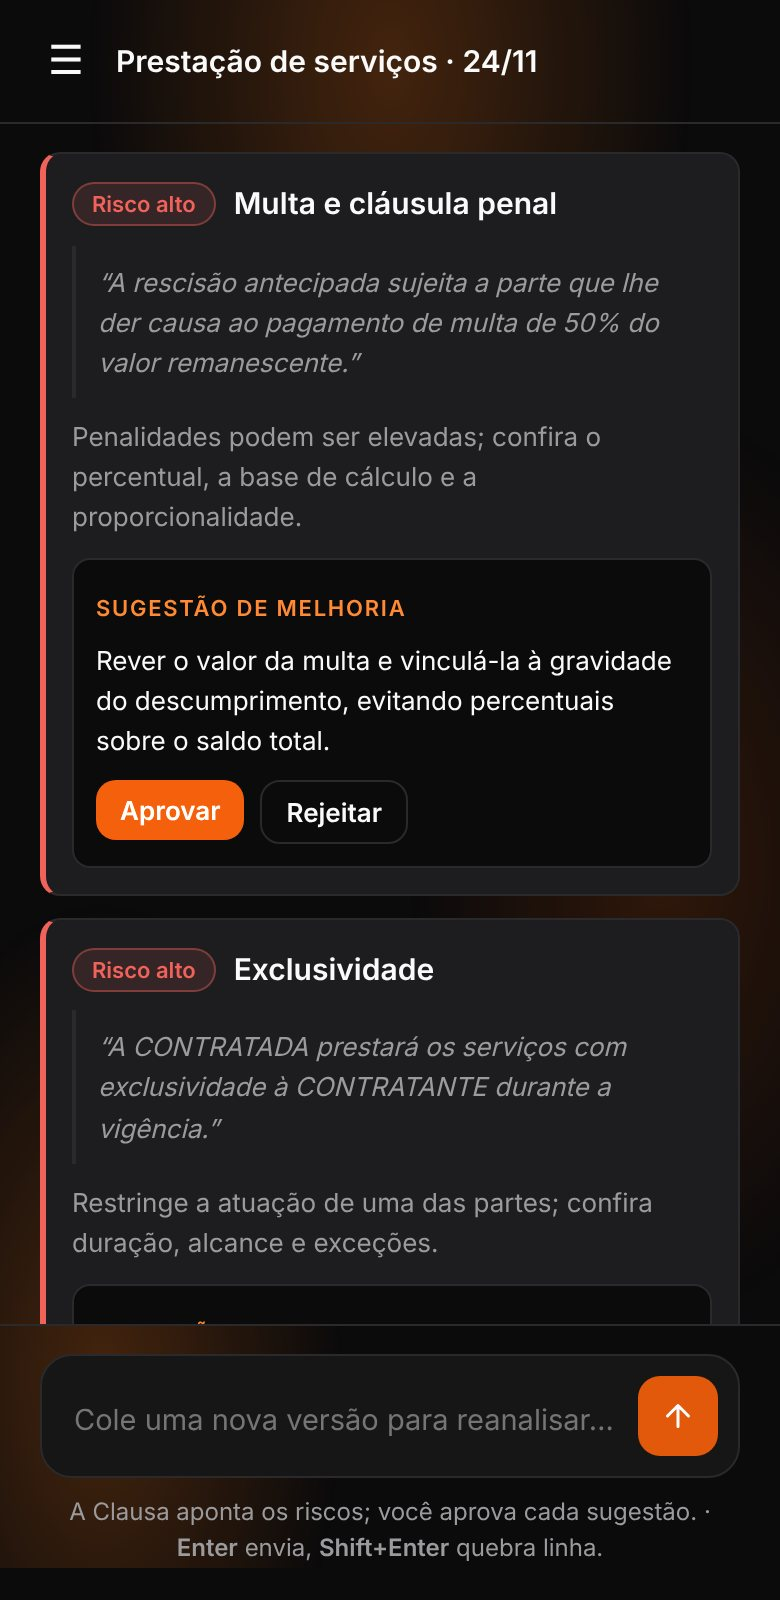
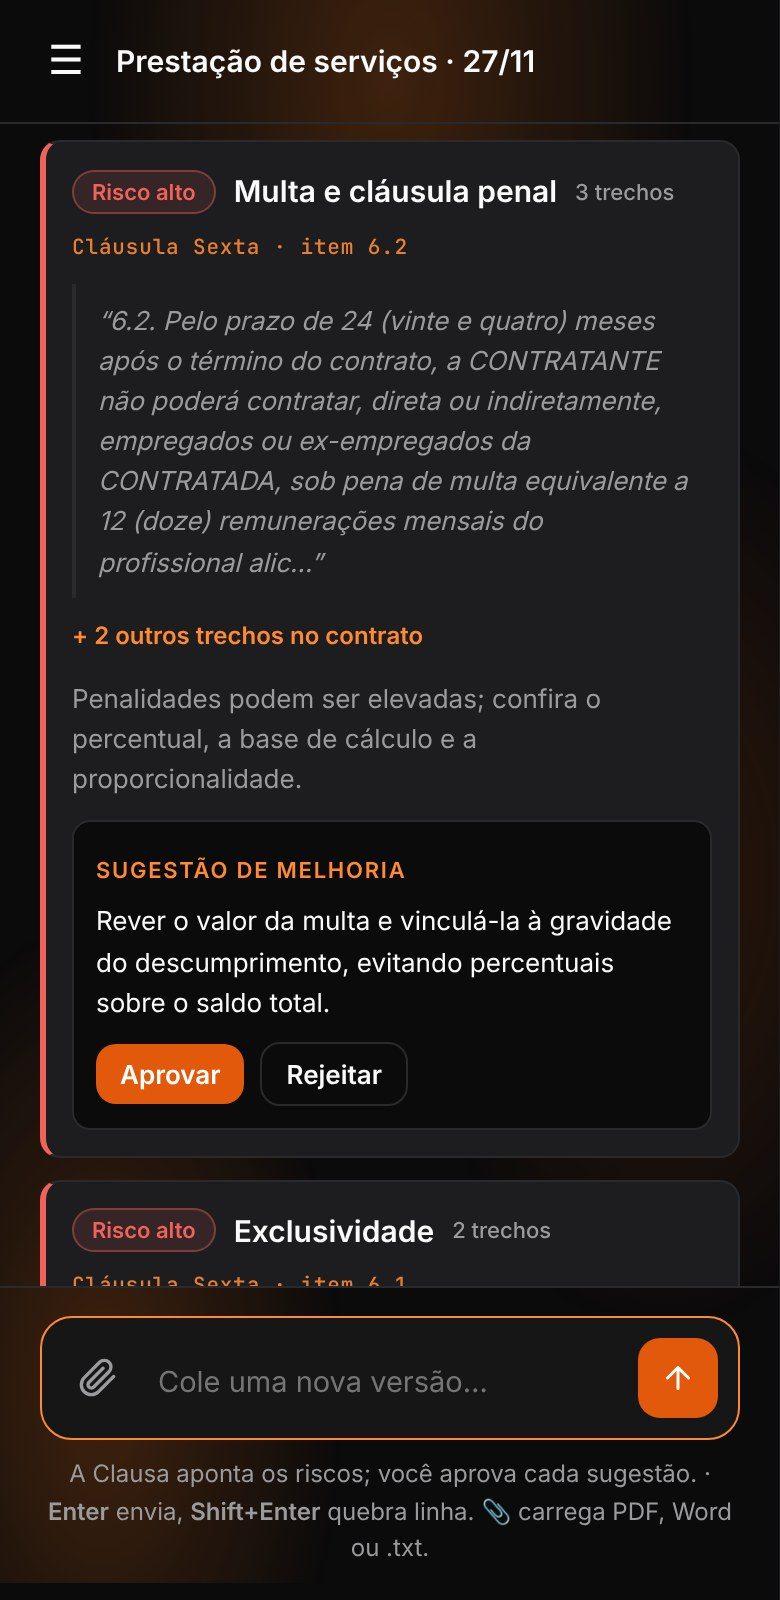
Site: seção Para escritórios, novidades (sigilo, Word, escaneado, equipe) e prints novos do app
Claude-Session: https://claude.ai/code/session_01LopQzW3XM78mzvZh3cbRhj

diff --git a/index.html b/index.html
@@ -214,7 +214,7 @@ footer{border-top:1px solid var(--line2);padding:56px 0 40px;color:var(--gray);f
 <div id="bar"></div>
 <nav class="nav"><div class="wrap">
   <a class="logo" href="#topo" aria-label="Clausa — voltar ao início">Clausa<svg viewBox="0 0 48 48" fill="none" stroke="currentColor" stroke-width="2.6" stroke-linecap="round" stroke-linejoin="round" aria-hidden="true"><circle cx="24" cy="6.4" r="1.9" fill="currentColor" stroke="none"/><path d="M24 7.5 V37.5"/><path d="M9.5 14 H38.5"/><path d="M9.5 14 V17"/><path d="M4.8 17 Q9.5 23.6 14.2 17"/><path d="M38.5 14 V17"/><path d="M33.8 17 Q38.5 23.6 43.2 17"/><path d="M17.5 37.5 H30.5"/></svg></a>
-  <div class="links"><a href="#como">Como funciona</a><a href="#recursos">Recursos</a><a href="#teste">Experimente</a><a href="#seguranca">Segurança</a><a href="#faq">Dúvidas</a></div>
+  <div class="links"><a href="#como">Como funciona</a><a href="#recursos">Recursos</a><a href="#escritorios">Escritórios</a><a href="#teste">Experimente</a><a href="#seguranca">Segurança</a><a href="#faq">Dúvidas</a></div>
   <div class="nav-r">
     <button class="icon-btn" id="theme" type="button" aria-label="Alternar tema claro e escuro"><svg width="17" height="17" viewBox="0 0 24 24" fill="none" stroke="currentColor" stroke-width="2" stroke-linecap="round" stroke-linejoin="round" aria-hidden="true"><path d="M21 12.8A9 9 0 1 1 11.2 3a7 7 0 0 0 9.8 9.8z"/></svg></button>
     <a class="btn ghost sm" href="entrar.html">Entrar</a>
@@ -224,20 +224,20 @@ footer{border-top:1px solid var(--line2);padding:56px 0 40px;color:var(--gray);f
 
 <header id="topo" class="hero">
   <div class="wrap">
-    <span class="badge reveal"><i></i>Em desenvolvimento · teste grátis aberto</span>
+    <span class="badge reveal"><i></i>Teste grátis aberto · piloto para escritórios</span>
     <h1>Saiba onde olhar <em>antes de assinar.</em></h1>
     <p class="lead reveal">A Clausa lê o contrato com você, aponta as cláusulas que merecem atenção e explica o motivo de cada uma. A decisão continua sendo sua, ou do seu advogado.</p>
     <div class="ctas reveal"><a class="btn" href="app.html">Testar grátis <svg width="16" height="16" viewBox="0 0 24 24" fill="none" stroke="currentColor" stroke-width="2.2" stroke-linecap="round" stroke-linejoin="round" aria-hidden="true"><path d="M5 12h14M13 6l6 6-6 6"/></svg></a><a class="btn ghost" href="#como">Ver como funciona</a><button class="btn ghost" type="button" data-instalar hidden><svg width="16" height="16" viewBox="0 0 24 24" fill="none" stroke="currentColor" stroke-width="1.8" stroke-linecap="round" stroke-linejoin="round" aria-hidden="true"><path d="M12 3v12M7 10l5 5 5-5M5 21h14"/></svg>Instalar app</button></div>
     <ul class="trust reveal">
       <li><svg width="16" height="16" viewBox="0 0 24 24" fill="none" stroke="currentColor" stroke-width="2.4" stroke-linecap="round" stroke-linejoin="round" aria-hidden="true"><path d="M5 12l5 5 9-10"/></svg>Sem cadastro para testar</li>
-      <li><svg width="16" height="16" viewBox="0 0 24 24" fill="none" stroke="currentColor" stroke-width="2.4" stroke-linecap="round" stroke-linejoin="round" aria-hidden="true"><path d="M5 12l5 5 9-10"/></svg>Sem login, o texto fica só no seu aparelho</li>
+      <li><svg width="16" height="16" viewBox="0 0 24 24" fill="none" stroke="currentColor" stroke-width="2.4" stroke-linecap="round" stroke-linejoin="round" aria-hidden="true"><path d="M5 12l5 5 9-10"/></svg>Modo sigilo: o contrato não sai do seu aparelho</li>
       <li><svg width="16" height="16" viewBox="0 0 24 24" fill="none" stroke="currentColor" stroke-width="2.4" stroke-linecap="round" stroke-linejoin="round" aria-hidden="true"><path d="M5 12l5 5 9-10"/></svg>Pensada para contratos brasileiros</li>
     </ul>
   </div>
   <div class="shot reveal">
     <div class="browser"><div class="chrome"><i></i><i></i><i></i><span>mholandap.github.io/Clausa/app</span></div>
-      <img src="img/app-revisao.jpg" width="1280" height="800" alt="Tela do app Clausa: revisão de um contrato de prestação de serviços com 2 riscos altos, 6 pontos de atenção e 3 sem alerta, e a cláusula de multa destacada com sugestão de melhoria."></div>
-    <div class="phone"><img src="img/app-celular.jpg" width="390" height="800" alt="O mesmo app no celular, mostrando a cláusula de multa com risco alto." loading="lazy"></div>
+      <img src="img/app-revisao.jpg" width="1280" height="800" alt="Tela do app Clausa: revisão de um contrato de prestação de serviços com 4 riscos altos, 13 pontos de atenção e 8 sem alerta; a multa aparece em 3 trechos, com a cláusula e o item de cada um."></div>
+    <div class="phone"><img src="img/app-celular.jpg" width="390" height="800" alt="O mesmo app no celular, mostrando a cláusula de multa com risco alto, a cláusula e o item." loading="lazy"></div>
   </div>
   <div class="hero-fade"></div>
 </header>
@@ -277,12 +277,12 @@ footer{border-top:1px solid var(--line2);padding:56px 0 40px;color:var(--gray);f
 <section id="como" class="alt"><div class="wrap">
   <div class="center"><p class="eyebrow">Como funciona</p><h2>Do texto ao alerta em três passos.</h2><p class="sub">Sem instalar nada. Funciona no navegador do computador e do celular.</p></div>
   <div class="steps">
-    <div class="step reveal"><div class="txt"><span class="num">01</span><h3>Cole o contrato</h3><p>Cole o texto ou carregue um arquivo .txt. Sem cadastro, ele fica só no seu aparelho.</p></div>
+    <div class="step reveal"><div class="txt"><span class="num">01</span><h3>Cole o contrato</h3><p>Cole o texto ou carregue PDF (até escaneado), Word ou .txt. Sem cadastro, ele fica só no seu aparelho.</p></div>
       <div class="vis"><img src="img/app-inicio.jpg" width="1280" height="800" alt="Tela inicial do app com a caixa para colar o contrato." loading="lazy"></div></div>
-    <div class="step reveal"><div class="txt"><span class="num">02</span><h3>Veja o que importa</h3><p>Cada cláusula relevante aparece com o nível de atenção, o trecho e o motivo.</p></div>
+    <div class="step reveal"><div class="txt"><span class="num">02</span><h3>Veja o que importa</h3><p>Cada ponto aparece com o nível de atenção, o trecho, onde está (cláusula e item) e o motivo.</p></div>
       <div class="vis"><div class="file"><span>Multa de 50% do saldo</span><span class="chip alto">Risco alto</span></div><div class="file"><span>Renovação automática</span><span class="chip medio">Atenção</span></div><div class="file"><span>Reajuste pelo IPCA</span><span class="chip medio">Atenção</span></div><div class="file"><span>Confidencialidade</span><span class="chip ok">Sem alerta</span></div></div></div>
-    <div class="step reveal"><div class="txt"><span class="num">03</span><h3>Decida e guarde</h3><p>Aprove ou rejeite cada sugestão e baixe o relatório. Com login, fica salvo na sua conta.</p></div>
-      <div class="vis"><div class="file"><span>Rever valor da multa</span><span class="chip ok">Aprovada</span></div><div class="file"><span>Aviso de 60 dias antes da renovação</span><span class="chip ok">Aprovada</span></div><div class="file"><span>Exclusividade por território</span><span class="chip medio">Pendente</span></div><div class="file"><span>Relatório da revisão (.txt)</span><span class="chip ok">Baixado</span></div></div></div>
+    <div class="step reveal"><div class="txt"><span class="num">03</span><h3>Decida e guarde</h3><p>Aprove ou rejeite cada sugestão e baixe o relatório em PDF ou Word. Com login, fica salvo na sua conta.</p></div>
+      <div class="vis"><div class="file"><span>Rever valor da multa</span><span class="chip ok">Aprovada</span></div><div class="file"><span>Aviso de 60 dias antes da renovação</span><span class="chip ok">Aprovada</span></div><div class="file"><span>Exclusividade por território</span><span class="chip medio">Pendente</span></div><div class="file"><span>Relatório em PDF ou Word</span><span class="chip ok">Baixado</span></div></div></div>
   </div>
 </div></section>
 
@@ -295,7 +295,7 @@ footer{border-top:1px solid var(--line2);padding:56px 0 40px;color:var(--gray);f
     <button class="tab" role="tab" aria-selected="false" data-t="1">Prazos</button>
     <button class="tab" role="tab" aria-selected="false" data-t="2">Due diligence</button>
   </div>
-  <div class="tp show"><div><h3>Leitura assistida</h3><ul><li>Destaque de cláusulas de risco com a justificativa</li><li>Sugestões que você aprova ou rejeita</li><li>Regras e modelos que você mesmo ajusta</li></ul></div>
+  <div class="tp show"><div><h3>Leitura assistida</h3><ul><li>Destaque de cláusulas de risco com a justificativa</li><li>Todos os trechos de cada ponto, com cláusula e item</li><li>Sugestões que você aprova ou rejeita</li><li>Relatório em PDF ou Word, editável</li><li>Regras e modelos que você mesmo ajusta</li></ul></div>
     <div class="mock"><div class="row"><span>Limitação de responsabilidade</span><span class="chip medio">Atenção</span></div><div class="row"><span>Exclusividade por 24 meses</span><span class="chip alto">Risco alto</span></div><div class="row"><span>Irrevogável e irretratável</span><span class="chip medio">Atenção</span></div><div class="row"><span>Cláusula de confidencialidade</span><span class="chip ok">Sem alerta</span></div></div></div>
   <div class="tp"><div><h3>Calendário de obrigações <span class="chip medio" style="vertical-align:middle;font-size:11px">Em breve</span></h3><ul><li>Vencimentos, renovações e avisos prévios em um só lugar</li><li>Lembretes antes da data limite</li><li>Responsável definido para cada prazo</li></ul></div>
     <div class="mock" id="deadlines"><div class="row"><span>Aviso de renovação — Contrato A</span><button type="button">Tratado</button></div><div class="row"><span>Entrega de relatório — Contrato B</span><button type="button">Tratado</button></div><div class="row"><span>Revisão de preços — Contrato D</span><button type="button">Tratado</button></div></div></div>
@@ -328,6 +328,16 @@ footer{border-top:1px solid var(--line2);padding:56px 0 40px;color:var(--gray);f
   <div class="out reveal"><small>Valor estimado liberado</small><strong id="res">R$ 0</strong><small id="hrs"></small></div>
 </div></section>
 
+<section id="escritorios"><div class="wrap">
+  <div class="center"><p class="eyebrow">Para escritórios</p><h2>A equipe inteira revisando do mesmo jeito.</h2><p class="sub">Tudo o que um escritório precisa para começar um piloto, já disponível no app.</p></div>
+  <div class="grid2">
+    <div class="card reveal"><div class="ico"><svg width="22" height="22" viewBox="0 0 24 24" fill="none" stroke="currentColor" stroke-width="1.8" stroke-linecap="round" stroke-linejoin="round" aria-hidden="true"><path d="M3 21h18M5 21V7l7-4 7 4v14M9 21v-5h6v5"/></svg></div><h3>Conta de equipe</h3><p>O escritório define as regras de revisão e todos os advogados usam a mesma versão. Convite por link. Os contratos de cada advogado continuam individuais.</p></div>
+    <div class="card reveal"><div class="ico"><svg width="22" height="22" viewBox="0 0 24 24" fill="none" stroke="currentColor" stroke-width="1.8" stroke-linecap="round" stroke-linejoin="round" aria-hidden="true"><rect x="4" y="11" width="16" height="10" rx="2"/><path d="M8 11V7a4 4 0 0 1 8 0v4"/></svg></div><h3>Modo sigilo</h3><p>Com um clique, o contrato não vai para a nuvem. A leitura é feita no próprio navegador, por regras, sem enviar o texto a serviços de inteligência artificial.</p></div>
+    <div class="card reveal"><div class="ico"><svg width="22" height="22" viewBox="0 0 24 24" fill="none" stroke="currentColor" stroke-width="1.8" stroke-linecap="round" stroke-linejoin="round" aria-hidden="true"><path d="M14 2H6a2 2 0 0 0-2 2v16a2 2 0 0 0 2 2h12a2 2 0 0 0 2-2V8z"/><path d="M14 2v6h6M8 13h8M8 17h5"/></svg></div><h3>Contratos longos e escaneados</h3><p>Todos os trechos de cada ponto, com a cláusula e o item. PDF escaneado é lido no próprio aparelho. Relatório em Word, pronto para editar e enviar ao cliente.</p></div>
+    <div class="card reveal"><div class="ico"><svg width="22" height="22" viewBox="0 0 24 24" fill="none" stroke="currentColor" stroke-width="1.8" stroke-linecap="round" stroke-linejoin="round" aria-hidden="true"><path d="M5 12l5 5 9-10"/></svg></div><h3>Piloto grátis de 30 dias</h3><p>Sem contrato e sem custo. Acompanhamento direto com o fundador e regras ajustadas à prática do escritório. <a href="marketing/proposta/proposta-clausa-escritorios.pdf" target="_blank" rel="noopener">Ver a proposta (PDF)</a> ou <a href="#lista">pedir o piloto</a>.</p></div>
+  </div>
+</div></section>
+
 <section id="seguranca" class="alt"><div class="wrap">
   <div class="center"><p class="eyebrow">Segurança</p><h2>Confidencialidade como requisito.</h2><p class="sub">Contrato é documento sensível. Estes são os princípios que guiam o produto.</p></div>
   <div class="grid2">
@@ -345,7 +355,7 @@ footer{border-top:1px solid var(--line2);padding:56px 0 40px;color:var(--gray);f
     <details><summary>Usa inteligência artificial?</summary><p>Ainda não. Hoje a leitura é feita por regras escritas para cláusulas comuns em contratos brasileiros. Isso deixa o resultado previsível e fácil de conferir.</p></details>
     <details><summary>Quanto custa?</summary><p>O teste no app é grátis e não pede cadastro. Os planos ainda estão sendo definidos com quem usa.</p></details>
     <details><summary>Quais formatos posso usar?</summary><p>Texto colado, PDF, Word (.docx) ou arquivo .txt. PDF escaneado (foto do papel) também: a leitura da imagem é feita no seu próprio aparelho.</p></details>
-    <details><summary>Sou de um escritório. Posso participar?</summary><p>Sim. Estamos conversando com escritórios para decidir o que construir primeiro. Deixe seu contato abaixo.</p></details>
+    <details><summary>Sou de um escritório. Posso participar?</summary><p>Sim. Há um piloto grátis de 30 dias, com conta de equipe e regras do escritório. <a href="marketing/proposta/proposta-clausa-escritorios.pdf" target="_blank" rel="noopener">Veja a proposta</a> e deixe seu contato abaixo.</p></details>
   </div>
 </div></section>
 
@@ -354,7 +364,7 @@ footer{border-top:1px solid var(--line2);padding:56px 0 40px;color:var(--gray);f
     <div>
       <p class="eyebrow">Piloto com escritórios</p>
       <h2>Construa a Clausa com a gente.</h2>
-      <p class="sub" style="margin-bottom:24px">Uma conversa de 30 minutos sobre a sua rotina, uma demonstração guiada e acesso antecipado às próximas versões. Sem compromisso.</p>
+      <p class="sub" style="margin-bottom:24px">Uma demonstração de 15 minutos, 30 dias de piloto grátis com a sua equipe e acompanhamento direto. Sem compromisso.</p>
       <a class="btn ghost" href="app.html">Ou teste agora, grátis</a>
     </div>
     <form id="f" novalidate>
@@ -374,7 +384,7 @@ footer{border-top:1px solid var(--line2);padding:56px 0 40px;color:var(--gray);f
 <footer><div class="wrap">
   <div class="fgrid">
     <div><a class="logo" href="#topo" style="margin:0">Clausa<svg viewBox="0 0 48 48" fill="none" stroke="currentColor" stroke-width="2.6" stroke-linecap="round" stroke-linejoin="round" aria-hidden="true"><circle cx="24" cy="6.4" r="1.9" fill="currentColor" stroke="none"/><path d="M24 7.5 V37.5"/><path d="M9.5 14 H38.5"/><path d="M9.5 14 V17"/><path d="M4.8 17 Q9.5 23.6 14.2 17"/><path d="M38.5 14 V17"/><path d="M33.8 17 Q38.5 23.6 43.2 17"/><path d="M17.5 37.5 H30.5"/></svg></a><p>Revise antes de assinar. Projeto em desenvolvimento, feito no Brasil.</p></div>
-    <div><h4>Produto</h4><a href="app.html">Testar grátis</a><a href="#como">Como funciona</a><a href="#recursos">Recursos</a><a href="entrar.html">Entrar</a><a href="#" data-instalar hidden>Instalar app</a></div>
+    <div><h4>Produto</h4><a href="app.html">Testar grátis</a><a href="#como">Como funciona</a><a href="#recursos">Recursos</a><a href="#escritorios">Escritórios</a><a href="entrar.html">Entrar</a><a href="#" data-instalar hidden>Instalar app</a></div>
     <div><h4>Contato</h4><a href="#lista">Piloto com escritórios</a><a href="https://clausa-fawn.vercel.app/" target="_blank" rel="noopener">Questionário ↗</a><a href="https://www.instagram.com/pedrom.holanda/" target="_blank" rel="noopener">Instagram ↗</a></div>
     <div><h4>Legal</h4><a href="privacidade.html">Privacidade</a><a href="termos.html">Termos de uso</a></div>
   </div>
